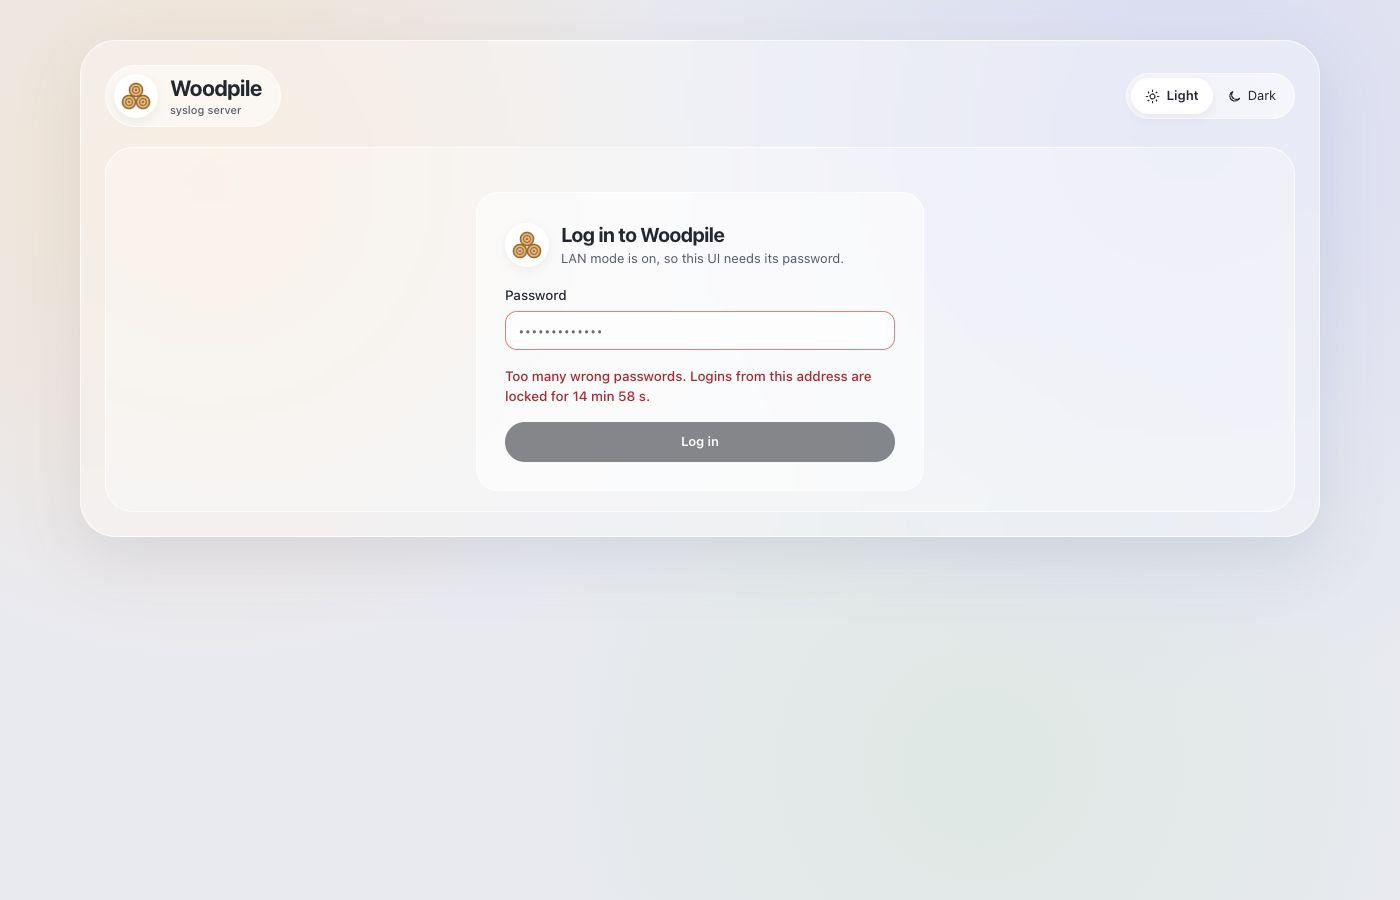
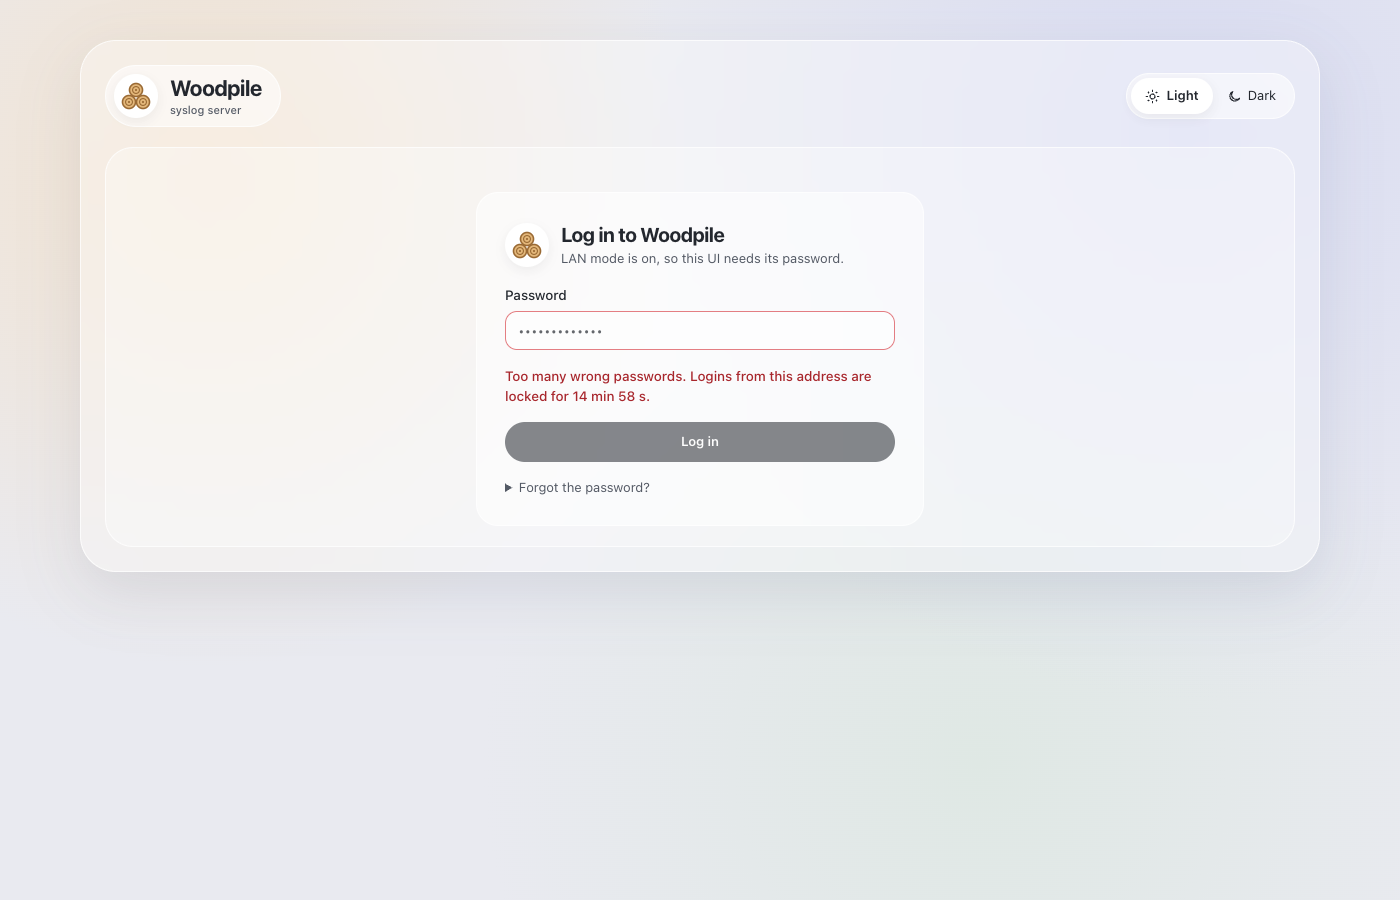
web: "now" within a poll, Welcome names the first sender, reset-password note
- Last heard reads "now" within one device poll (5 s) plus 2 s, since the
  API's last_heard is live when fetched.
- Welcome: time from /api/status.first_message_at and the device with the
  earliest first_seen, not the latest live line. The mock fleet that joins
  after a first-run test message now has first_seen = join time.
- Login: "Forgot the password?" note for `woodpile reset-password`.
- Smoke checks for all three.

Changed region(s): [[0.0921, 0.5911, 0.9214, 0.6222], [0.3686, 0.5289, 0.4607, 0.56]]

diff --git a/web/src/pages/Welcome.svelte b/web/src/pages/Welcome.svelte
@@ -1,7 +1,7 @@
 <script lang="ts">
-  import { openLive, type Listener, type LogLine } from '../lib/api';
-  import { clock, dateTime } from '../lib/format';
-  import { deviceName, live, refreshDevices, refreshStatus } from '../lib/status.svelte';
+  import { openLive, type Listener } from '../lib/api';
+  import { dateTime } from '../lib/format';
+  import { firstDevice, live, refreshDevices, refreshStatus } from '../lib/status.svelte';
   import CopyButton from '../components/CopyButton.svelte';
   import Icon from '../components/Icon.svelte';
 
@@ -36,7 +36,11 @@
   }
   const shell: Record<OS, string> = { macos: 'Terminal', linux: 'a terminal', windows: 'PowerShell' };
 
-  let first = $state<LogLine | null>(null);
+  // A live message only means "check now": the stream shows the latest messages, not the
+  // first, so the time comes from first_message_at and the name from the earliest first_seen.
+  let heard = $state(false);
+  const received = $derived(!!st?.first_message_at);
+  const fromDevice = $derived(received ? firstDevice() : undefined);
 
   // /api/status.first_message_at is the authority. The live stream is watched too, so the
   // page reacts at once and can show the line itself (the replay on connect also counts).
@@ -44,9 +48,9 @@
     const close = openLive(
       {},
       {
-        onMessage(l) {
-          if (!first) {
-            first = l;
+        onMessage() {
+          if (!heard) {
+            heard = true;
             refreshDevices();
             refreshStatus();
           }
@@ -129,17 +133,16 @@
   </section>
 
   <section class="card" aria-live="polite">
-    {#if first || st?.first_message_at}
+    {#if received}
       <div class="flex flex-wrap items-center justify-between gap-3">
         <div>
           <h2 class="m-0 flex items-center gap-2 text-lg font-bold"><span class="text-ok-fg"><Icon name="check" size={20} /></span>First message received</h2>
           <p class="mt-1 mb-0 text-[14px] text-muted">
-            {#if first}From {deviceName(first.device_id)} at {clock(first.received)}.{:else if st?.first_message_at}At {dateTime(st.first_message_at)}.{/if}
+            {#if fromDevice}From {fromDevice.name || fromDevice.ip}{fromDevice.name ? ` (${fromDevice.ip})` : ''} at {dateTime(st!.first_message_at!)}.{:else}At {dateTime(st!.first_message_at!)}.{/if}
           </p>
         </div>
         <a class="pill-btn no-underline" href="#/dashboard">Open the dashboard <Icon name="arrow" size={15} /></a>
       </div>
-      {#if first}<div class="log-panel mt-3 rounded-2xl px-4 py-3 text-[12.5px] break-all">{first.raw}</div>{/if}
     {:else}
       <div class="flex items-center gap-3">
         <span class="wait" aria-hidden="true"></span>

diff --git a/web/src/lib/mock/server.svelte.ts b/web/src/lib/mock/server.svelte.ts
@@ -142,7 +142,8 @@ interface Dev {
 
 const devs = new Map<string, Dev>();
 
-function addFleet(now: number) {
+/** joinedNow: the fleet starts sending now (after a first-run test message), so first_seen is now. */
+function addFleet(now: number, joinedNow = false) {
   for (const def of FLEET) {
     if (devs.has(def.ip)) continue;
     const silentFor = def.name === 'branch-fw-07' ? 6 * MIN + 12_000 : def.name === 'dmz-fw-01' ? 2 * 60 * MIN : 0;
@@ -151,7 +152,7 @@ function addFleet(now: number) {
       name: def.name,
       group: def.group,
       hidden: !!def.hidden,
-      firstSeen: now - (30 + Math.random() * 10) * 24 * 60 * MIN,
+      firstSeen: joinedNow ? now + Math.random() * 1000 : now - (30 + Math.random() * 10) * 24 * 60 * MIN,
       lastHeard: now - silentFor,
       total: Math.round(def.weight * 3e5 + Math.random() * 5e4),
       bytes: Math.round(def.weight * 4.2e7 + Math.random() * 1e6),
@@ -351,7 +352,7 @@ export function sendFirstMessage() {
   mock.firstRun = false;
   emit(testLine(new Date(now)));
   // The rest of the fleet "joins" a few seconds later so the dashboard has something to show.
-  setTimeout(() => addFleet(Date.now()), 5000);
+  setTimeout(() => addFleet(Date.now(), true), 5000);
 }
 
 export function restartFirstRun() {

diff --git a/web/src/pages/Devices.svelte b/web/src/pages/Devices.svelte
@@ -2,7 +2,7 @@
   import { tick } from 'svelte';
   import { patchDevice, type Device, type DevicePatch } from '../lib/api';
   import { ago, bytes, date, dateTime, num, rate } from '../lib/format';
-  import { live, replaceDevice } from '../lib/status.svelte';
+  import { live, NOW_WITHIN_S, replaceDevice } from '../lib/status.svelte';
   import { ui } from '../lib/ui.svelte';
   import Icon from '../components/Icon.svelte';
   import StatusDot from '../components/StatusDot.svelte';
@@ -184,7 +184,7 @@
               {/if}
             </td>
             <td class="whitespace-nowrap" title={dateTime(d.first_seen)}>{date(d.first_seen)}</td>
-            <td class="whitespace-nowrap" title={dateTime(d.last_heard)}>{ago(d.last_heard, live.now)}</td>
+            <td class="whitespace-nowrap" title={dateTime(d.last_heard)}>{ago(d.last_heard, live.now, NOW_WITHIN_S)}</td>
             <td class="text-right whitespace-nowrap tabular-nums">{rate(d.msgs_per_min)}</td>
             <td class="text-right whitespace-nowrap tabular-nums">{num(d.total_msgs)}</td>
             <td class="text-right whitespace-nowrap tabular-nums">{bytes(d.bytes_on_disk)}</td>

diff --git a/web/src/pages/Login.svelte b/web/src/pages/Login.svelte
@@ -10,6 +10,8 @@
   let lockedUntil = $state(0);
   let now = $state(Date.now());
   let input: HTMLInputElement | undefined = $state();
+  // /api/status needs a login, so use the port this page came from (reset-password keeps ui.port).
+  const port = location.port || (location.protocol === 'https:' ? '443' : '80');
 
   $effect(() => {
     const t = setInterval(() => (now = Date.now()), 1000);
@@ -81,5 +83,12 @@
     <button type="submit" class="pill-btn w-full justify-center py-2.5" disabled={busy || !password || wait > 0}>
       {busy ? 'Checking…' : 'Log in'}
     </button>
+    <details class="text-[13px]">
+      <summary class="cursor-pointer text-muted">Forgot the password?</summary>
+      <p class="mt-2 mb-0 leading-relaxed">
+        On the Woodpile machine, run <code class="font-mono">woodpile reset-password</code> as an administrator. It turns LAN mode off
+        so the UI is back on <code class="font-mono whitespace-nowrap">http://localhost:{port}/</code>.
+      </p>
+    </details>
   </form>
 </div>

diff --git a/web/src/lib/status.svelte.ts b/web/src/lib/status.svelte.ts
@@ -41,6 +41,16 @@ export function deviceName(id: string): string {
   return d?.name || id;
 }
 
+/** How often /api/devices is polled. */
+export const DEVICE_POLL_MS = 5000;
+/** last_heard is live when fetched, so anything within one poll (plus a margin) reads as "now". */
+export const NOW_WITHIN_S = DEVICE_POLL_MS / 1000 + 2;
+
+/** The device heard from first (earliest first_seen), for the Welcome page. */
+export function firstDevice(): Device | undefined {
+  return [...(live.devices ?? [])].sort((a, b) => Date.parse(a.first_seen) - Date.parse(b.first_seen))[0];
+}
+
 let started = false;
 export function startPolling(): void {
   if (started) return;
@@ -48,6 +58,6 @@ export function startPolling(): void {
   refreshStatus();
   refreshDevices();
   setInterval(refreshStatus, 5000);
-  setInterval(refreshDevices, 5000);
+  setInterval(refreshDevices, DEVICE_POLL_MS);
   setInterval(() => (live.now = Date.now()), 1000);
 }

diff --git a/web/src/pages/Dashboard.svelte b/web/src/pages/Dashboard.svelte
@@ -1,7 +1,7 @@
 <script lang="ts">
   import { getStats, type Device, type Stats } from '../lib/api';
   import { ago, bytes, num, rate } from '../lib/format';
-  import { live } from '../lib/status.svelte';
+  import { live, NOW_WITHIN_S } from '../lib/status.svelte';
   import { ui } from '../lib/ui.svelte';
   import LiveTail from '../components/LiveTail.svelte';
   import Sparkline from '../components/Sparkline.svelte';
@@ -163,7 +163,7 @@
         <span class="mt-2.5 flex items-center justify-between gap-2 text-xs">
           <span class="flex min-w-0 items-center gap-1.5">
             <StatusDot status={d.status} />
-            <span class="truncate">{ago(d.last_heard, live.now)}</span>
+            <span class="truncate">{ago(d.last_heard, live.now, NOW_WITHIN_S)}</span>
           </span>
           <span class="text-muted">{rate(d.msgs_per_min)}</span>
         </span>

diff --git a/web/src/lib/format.ts b/web/src/lib/format.ts
@@ -22,12 +22,15 @@ export function bytes(n: number): string {
 export const GiB = 1024 ** 3;
 export const MiB = 1024 ** 2;
 
-/** "now", "12 s ago", "6 min ago", "2 h ago", "3 d ago". */
-export function ago(iso: string, now = Date.now()): string {
+/**
+ * "now", "12 s ago", "6 min ago", "2 h ago", "3 d ago". `nowWithin` (seconds) widens "now":
+ * a value refreshed by polling is up to one poll interval old by the time it's shown.
+ */
+export function ago(iso: string, now = Date.now(), nowWithin = 2): string {
   const t = Date.parse(iso);
   if (Number.isNaN(t)) return '—';
   const s = Math.max(0, Math.round((now - t) / 1000));
-  if (s < 2) return 'now';
+  if (s < nowWithin) return 'now';
   if (s < 60) return `${s} s ago`;
   const m = Math.floor(s / 60);
   if (m < 60) return `${m} min ago`;
